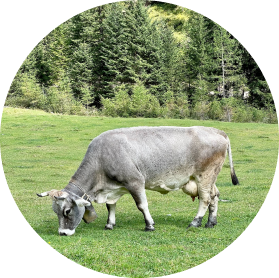
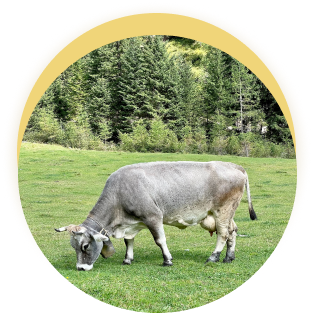
updata

diff --git a/src/css/layout/made.css b/src/css/layout/made.css
@@ -3,8 +3,7 @@
 }
 
 
-.container {
-}
+.container {}
 
 
 .made__sub-title {
@@ -20,6 +19,8 @@
 
 
 .made__title {
+    max-width: 200px;
+    margin: 0 auto;
     color: #FCFCFC;
     text-align: center;
     font-family: "Seymour One", sans-serif;
@@ -32,16 +33,25 @@
 
 
 .made__img {
-    width: 278px;
+    margin: 0 auto;
+    max-width: 278px;
     height: 278px;
+    margin-bottom: 40px;
 }
 
 
 .made__thumb {
+    display: flex;
+    flex-direction: column;
+    justify-content: center;
+    align-items: center;
+    margin-bottom: 50px
 }
 
 
 .made__text__one {
+    max-width: 220px;
+    margin: 0 auto;
     color: #FCFCFC;
     text-align: center;
     font-size: 12px;
@@ -51,12 +61,27 @@
 }
 
 
-.made__text {
+.made__text__two {
+    max-width: 220px;
+    margin: 0 auto;
     color: #FCFCFC;
     text-align: center;
     font-size: 12px;
     font-weight: 400;
     line-height: 162%;
+
+}
+
+
+.made__text__two__three {
+    max-width: 220px;
+    margin: 0 auto;
+    color: #FCFCFC;
+    text-align: center;
+    font-size: 12px;
+    font-weight: 400;
+    line-height: 162%;
+    margin-bottom: 24px;
 }
 
 
@@ -64,6 +89,7 @@
     color: #000;
     text-align: center;
     font-size: 14px;
+    font-family: "Montserrat", sans-serif;
     font-weight: 600;
     line-height: 128%;
     width: 164px;
@@ -77,6 +103,8 @@
     display: flex;
     flex-direction: column;
     align-items: center;
+    gap: 28px;
+    padding-bottom: 65px;
 }
 
 
@@ -84,12 +112,12 @@
     display: flex;
     flex-direction: column;
     align-items: center;
+    gap: 16px;
 
 }
 
 
 .made__item__svg {
-
     width: 36px;
     height: 36px;
     border-radius: 25px;
@@ -111,9 +139,223 @@
 
 
 .made__item__text {
+    max-width: 230px;
     color: #FCFCFC;
     text-align: center;
     font-size: 12px;
     font-weight: 400;
     line-height: 170%;
+}
+
+
+
+@media screen and (min-width: 768px) {
+    .made__sub-title {
+        font-size: 22px;
+        font-weight: 800;
+        letter-spacing: 0.88px;
+    }
+
+
+    .made__title {
+        max-width: 460px;
+        font-size: 34px;
+        letter-spacing: 2px;
+        margin-bottom: 72px;
+    }
+
+
+    .made__div {
+        display: flex;
+        justify-content: center;
+        align-items: center;
+        gap: 38px;
+        margin-bottom: 60px;
+    }
+
+
+    .made__img {
+        margin: 0;
+        max-width: 356px;
+        height: 356px;
+        margin-bottom: 0;
+    }
+
+
+    .made__thumb {
+        display: flex;
+        flex-direction: column;
+        justify-content: center;
+        align-items: start;
+        margin-bottom: 0px
+    }
+
+
+    .made__text__one {
+        max-width: 334px;
+        text-align: start;
+        margin: 0;
+    }
+
+
+    .made__text__two {
+        max-width: 334px;
+        text-align: start;
+        line-height: 176%;
+        letter-spacing: 0.48px;
+        margin: 0;
+    }
+
+
+    .made__text__two__three {
+        max-width: 220px;
+        text-align: start;
+        line-height: 194%;
+        letter-spacing: 0.48px;
+        margin: 0;
+        margin-bottom: 32px;
+    }
+
+
+    .made__btn {}
+
+
+    .made__list {
+        flex-direction: row;
+        justify-content: space-around;
+        gap: 0;
+        padding-bottom: 204px;
+    }
+
+
+    .made__item {
+        display: flex;
+        flex-direction: column;
+        align-items: center;
+        gap: 0;
+    }
+
+
+    .made__item__svg {
+        width: 50px;
+        height: 50px;
+        margin-bottom: 32px;
+    }
+
+
+    .made__item__icon {}
+
+
+    .made__item__title {
+        margin-bottom: 12px;
+    }
+
+
+    .made__item__text {
+        max-width: 152px;
+    }
+}
+
+
+@media screen and (min-width: 1200px) {
+    .made__sub-title {
+        font-size: 30px;
+        letter-spacing: 1.2px;
+    }
+
+
+    .made__title {
+        max-width: 490px;
+        letter-spacing: 2px;
+        margin-bottom: 82px;
+        font-size: 36px;
+    }
+
+
+    .made__div {
+        display: flex;
+        justify-content: start;
+        align-items: center;
+        gap: 109px;
+        margin-bottom: 60px;
+    }
+
+
+    .made__img {
+        max-width: 529px;
+        height: 529px;
+    }
+
+
+    .made__thumb {}
+
+
+    .made__text__one {
+        max-width: 463px;
+        font-size: 16px;
+        letter-spacing: 0.64px;
+    }
+
+
+    .made__text__two {
+        max-width: 463px;
+        font-size: 14px;
+        font-weight: 400;
+        line-height: 194%;
+        letter-spacing: 0.56px;
+    }
+
+
+    .made__text__two__three {
+        max-width: 463px;
+        font-size: 14px;
+        font-weight: 400;
+        line-height: 194%;
+        letter-spacing: 0.56px;
+    }
+
+
+    .made__btn {}
+
+
+    .made__list {
+        flex-direction: row;
+        justify-content: space-around;
+        gap: 0;
+        padding-bottom: 204px;
+    }
+
+
+    .made__item {
+        display: flex;
+        flex-direction: column;
+        align-items: center;
+        gap: 0;
+    }
+
+
+    .made__item__svg {
+        width: 50px;
+        height: 50px;
+        margin-bottom: 40px;
+    }
+
+
+    .made__item__icon {}
+
+
+    .made__item__title {
+        font-size: 58px;
+        letter-spacing: 2.32px;
+    }
+
+
+    .made__item__text {
+        max-width: 368px;
+
+        font-size: 16px;
+        font-weight: 400;
+        line-height: 176%;
+        letter-spacing: 0.32px;
+    }
 }

diff --git a/src/partials/made.html b/src/partials/made.html
@@ -2,15 +2,19 @@
     <div class="container">
         <h3 class="made__sub-title">tradition and love</h3>
         <h2 class="made__title">how it’s made?</h2>
-        <img class="made__img" srcset="img/made/cow.png 1x,
+        <div class="made__div">
+            <img class="made__img" srcset="img/made/cow.png 1x,
         /img/made/cow@2x.png 2x" src="img/made/cow.png" alt="cow">
-        <div class="made__thumb">
-            <p class="made__text__one">Ice is a place where you will become not only a little happier, but also healthier.
-                Health is the main value for us, and we follow it when creating our handmade desserts. </p>
-            <p class="made__text">We use traditional recipes and 100% natural ingredients. Our products are so natural
-                that they can be given to children from the age of three years. Sweets lovers can expect 55 types of ice
-                cream, 15 types of coffee and 23 milkshakes. </p>
-            <button class="made__btn">Read more</button>
+            <div class="made__thumb">
+                <p class="made__text__one">Ice is a place where you will become not only a little happier, but also
+                    healthier.
+                    Health is the main value for us, and we follow it when creating our handmade desserts. </p>
+                <p class="made__text__two">We use traditional recipes and 100% natural ingredients. Our products are so
+                    natural that they can be given to children from the age of three years. Sweets lovers can expect 55
+                    types of ice cream, 15 types of coffee and 23 milkshakes. </p>
+                <p class="made__text__two__three">This is enough to choose ice cream and coffee for any mood!</p>
+                <button class="made__btn">Read more</button>
+            </div>
         </div>
         <ul class="made__list">
             <li class="made__item">
@@ -22,14 +26,14 @@
             </li>
             <li class="made__item">
                 <svg class="made__item__svg">
-                    <use class="made__item__icon" href="/img/icons/symbol-defs.svg#icon-ice-made"></use>
+                    <use class="made__item__icon" href="/img/icons/symbol-defs.svg#icon-weight"></use>
                 </svg>
                 <h4 class="made__item__title">16kg</h4>
                 <p class="made__item__text">Aliquam ac dui vel dui vulputate consectetur. Mauris massa.</p>
             </li>
             <li class="made__item">
                 <svg class="made__item__svg">
-                    <use class="made__item__icon" href="/img/icons/symbol-defs.svg#icon-weight"></use>
+                    <use class="made__item__icon" href="/img/icons/symbol-defs.svg#icon-ice-made"></use>
                 </svg>
                 <h4 class="made__item__title">84</h4>
                 <p class="made__item__text">Aliquam ac dui vel dui vulputate consectetur. Mauris massa.</p>

diff --git a/src/css/base/common.css b/src/css/base/common.css
@@ -25,7 +25,6 @@
     .container {
         width: 1200px;
     }
-
 }
 
 :root {
